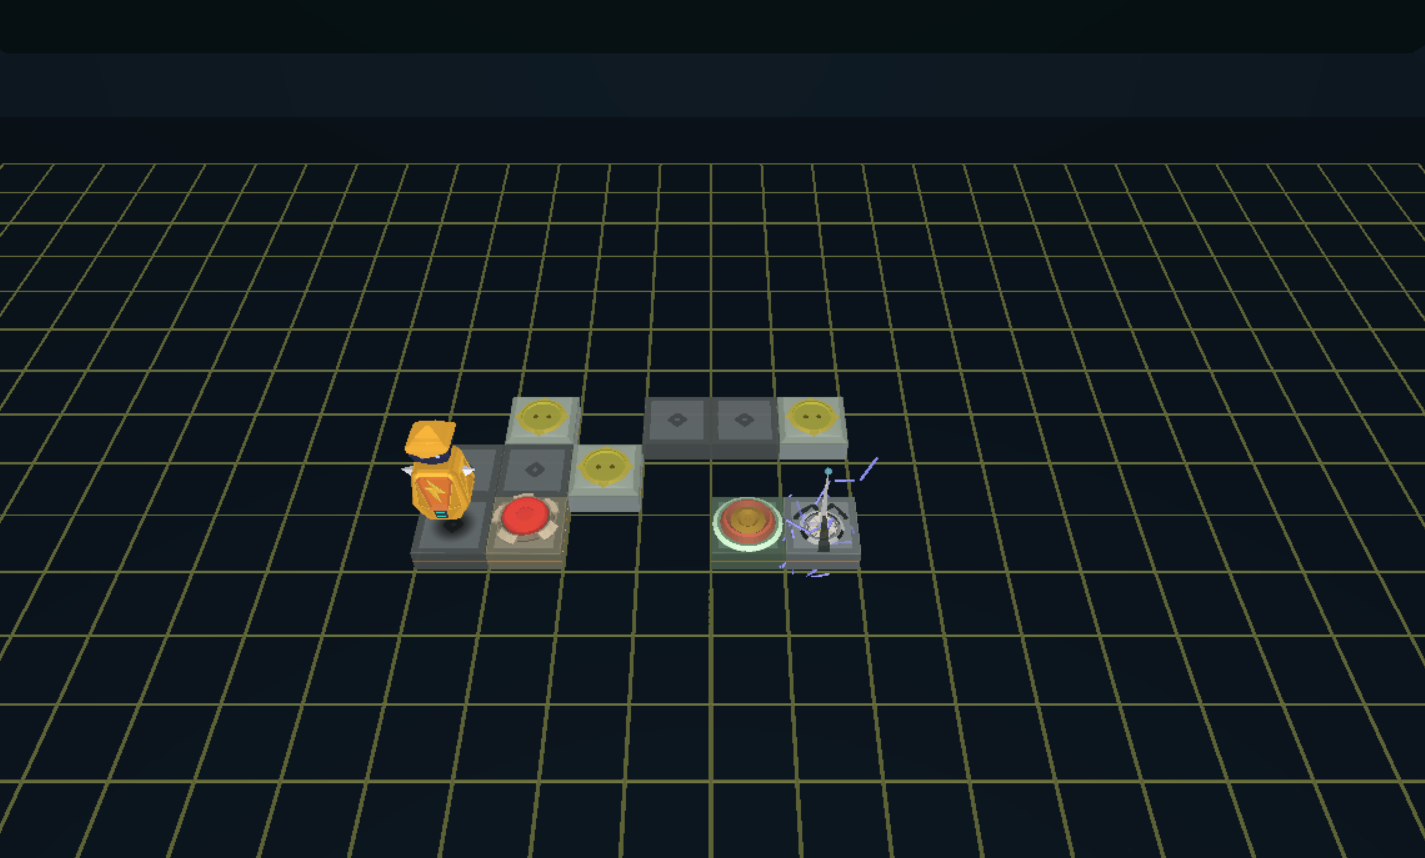
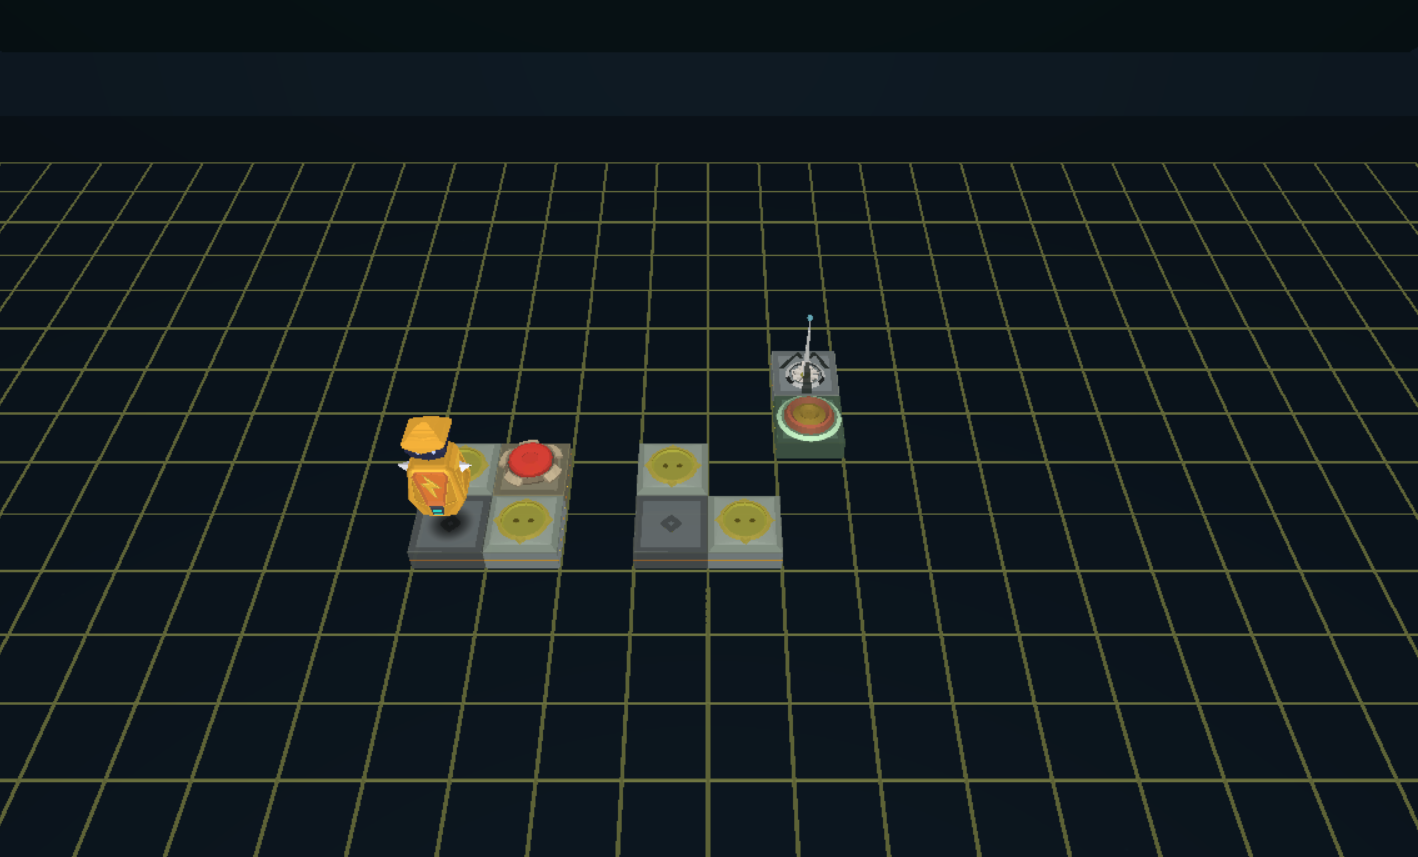
ステージ入れ替え、画像も対応

diff --git a/Scene.cpp b/Scene.cpp
@@ -186,11 +186,11 @@ void SceneGame::Update()
 			{
 				scene->tutorial->OverlapInitialize();
 			}
-			if (scene->stageManager->selectStage == STAGE::STAGE3)
+			if (scene->stageManager->selectStage == STAGE::STAGE4)
 			{
 				scene->tutorial->ElectricInitialize();
 			}
-			if (scene->stageManager->selectStage == STAGE::STAGE5)
+			if (scene->stageManager->selectStage == STAGE::STAGE6)
 			{
 				scene->tutorial->ButtonInitialize();
 			}
